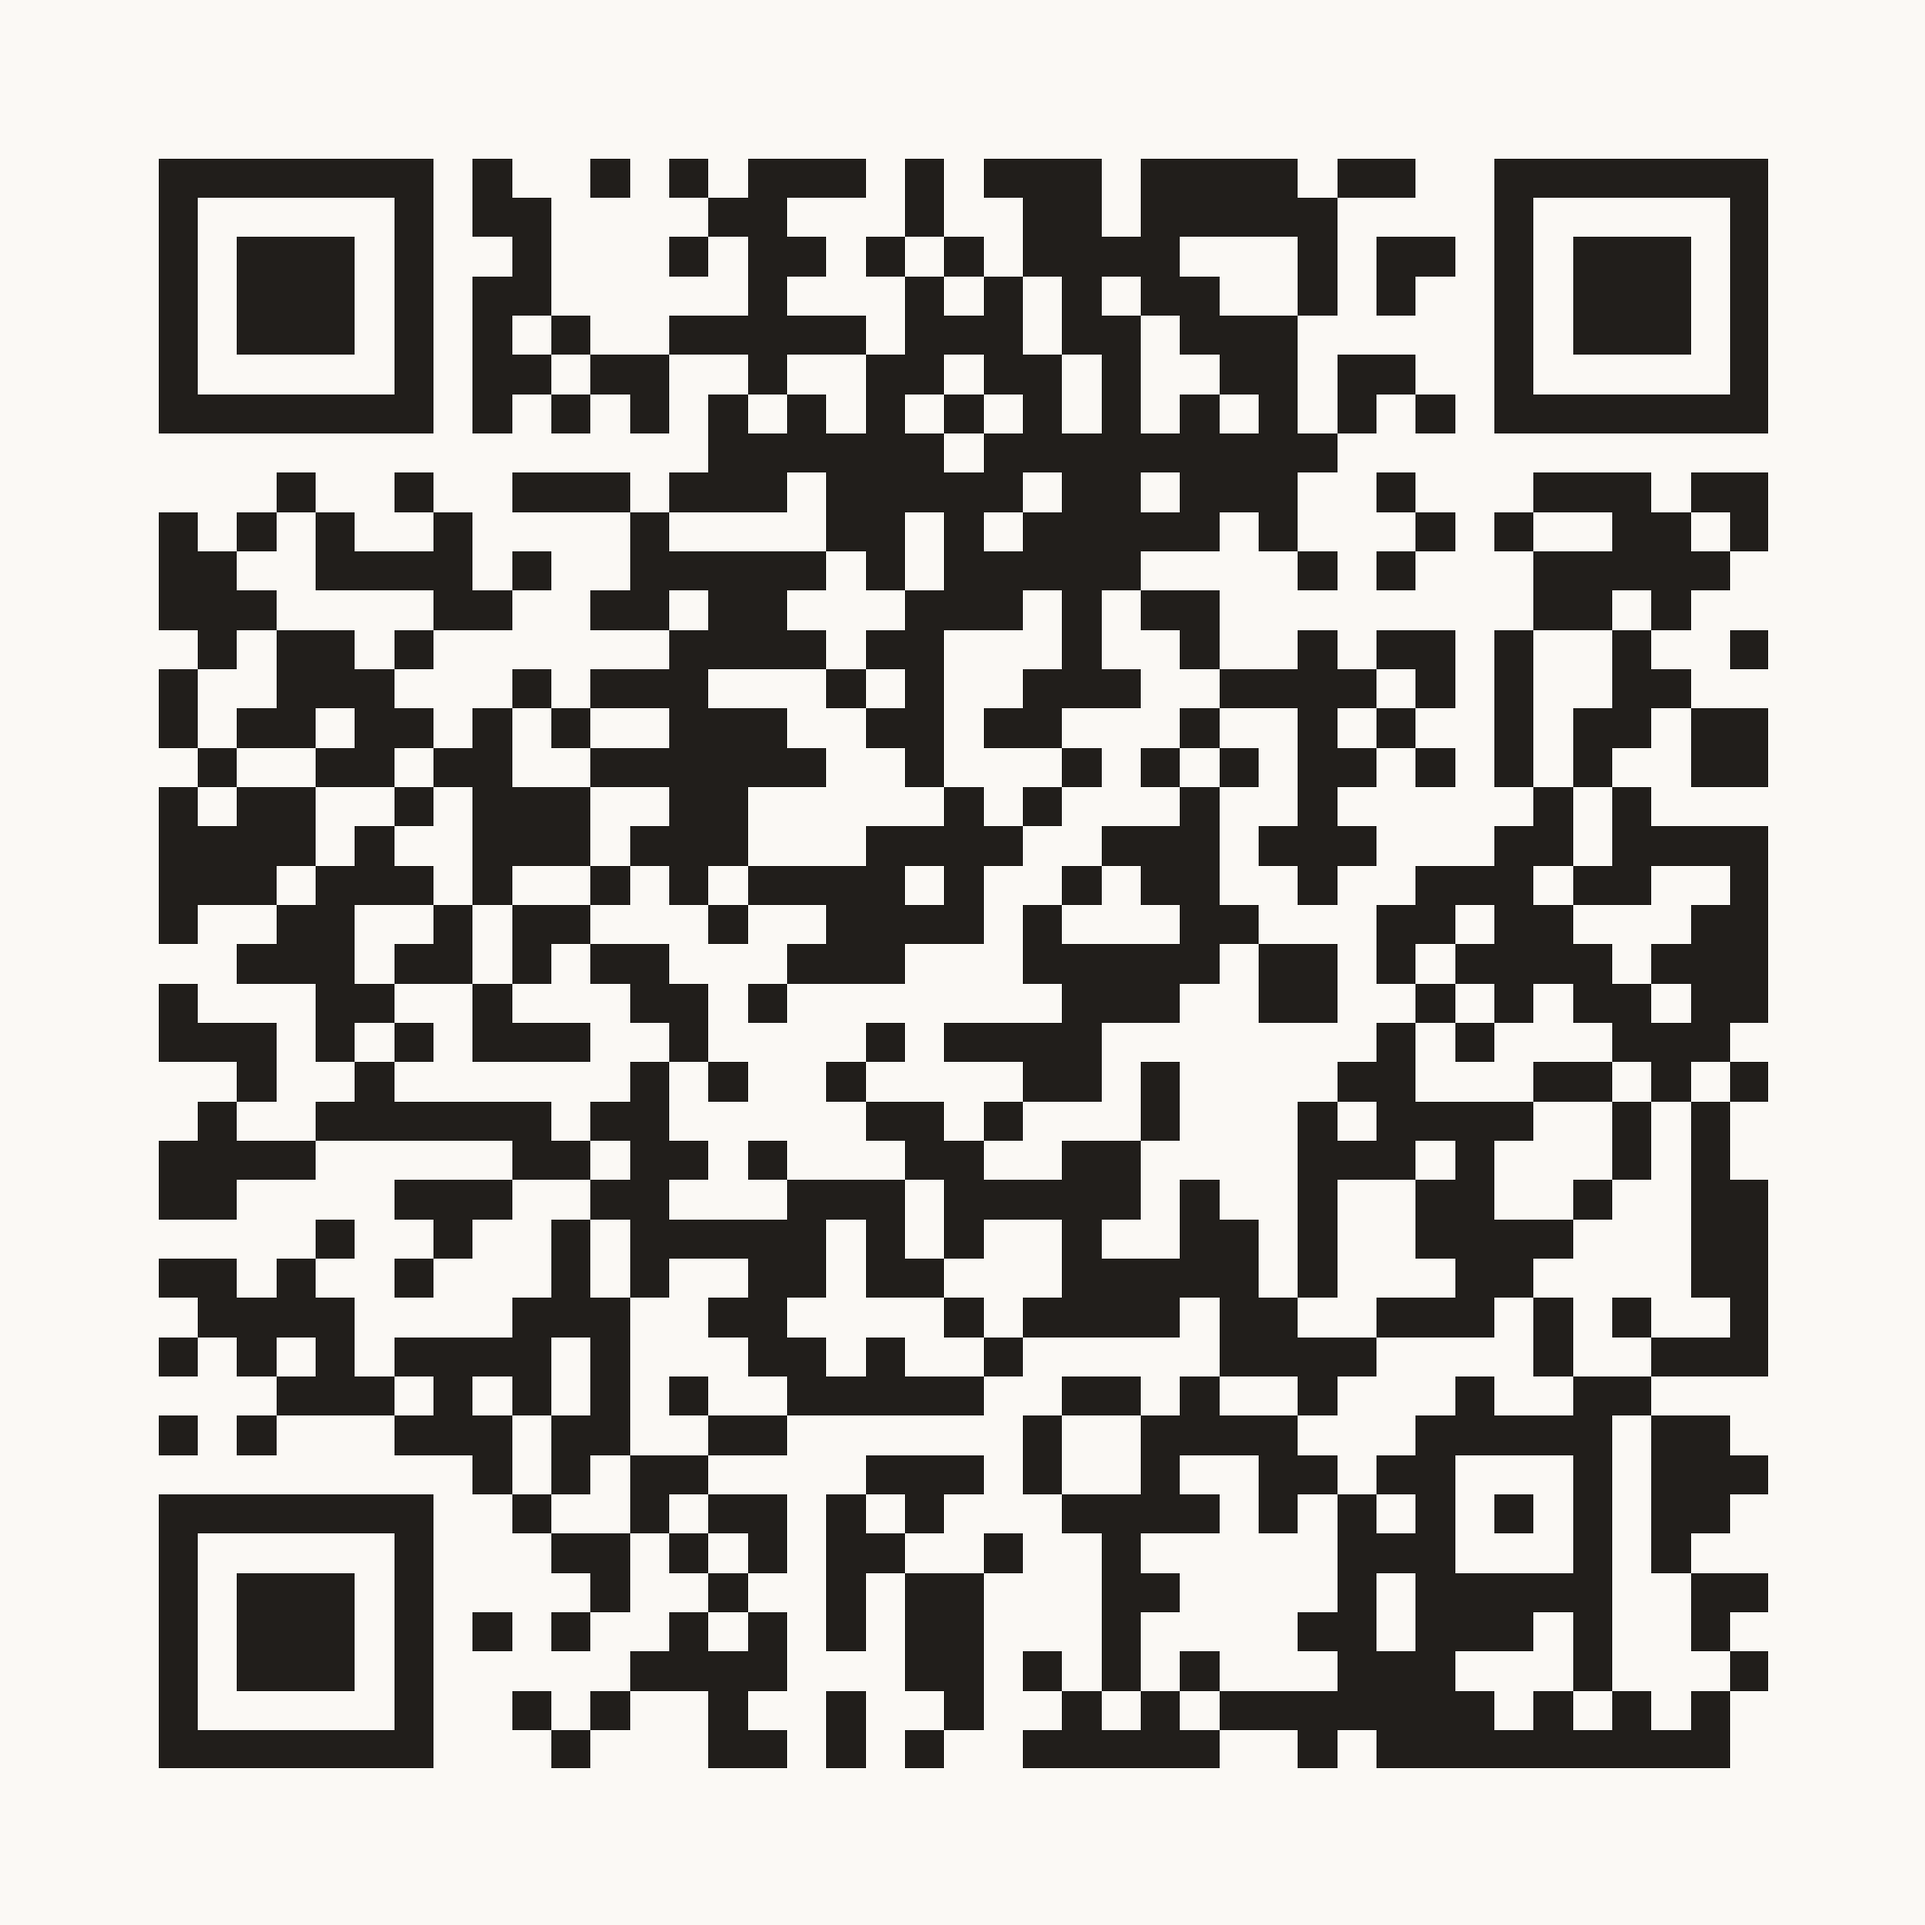
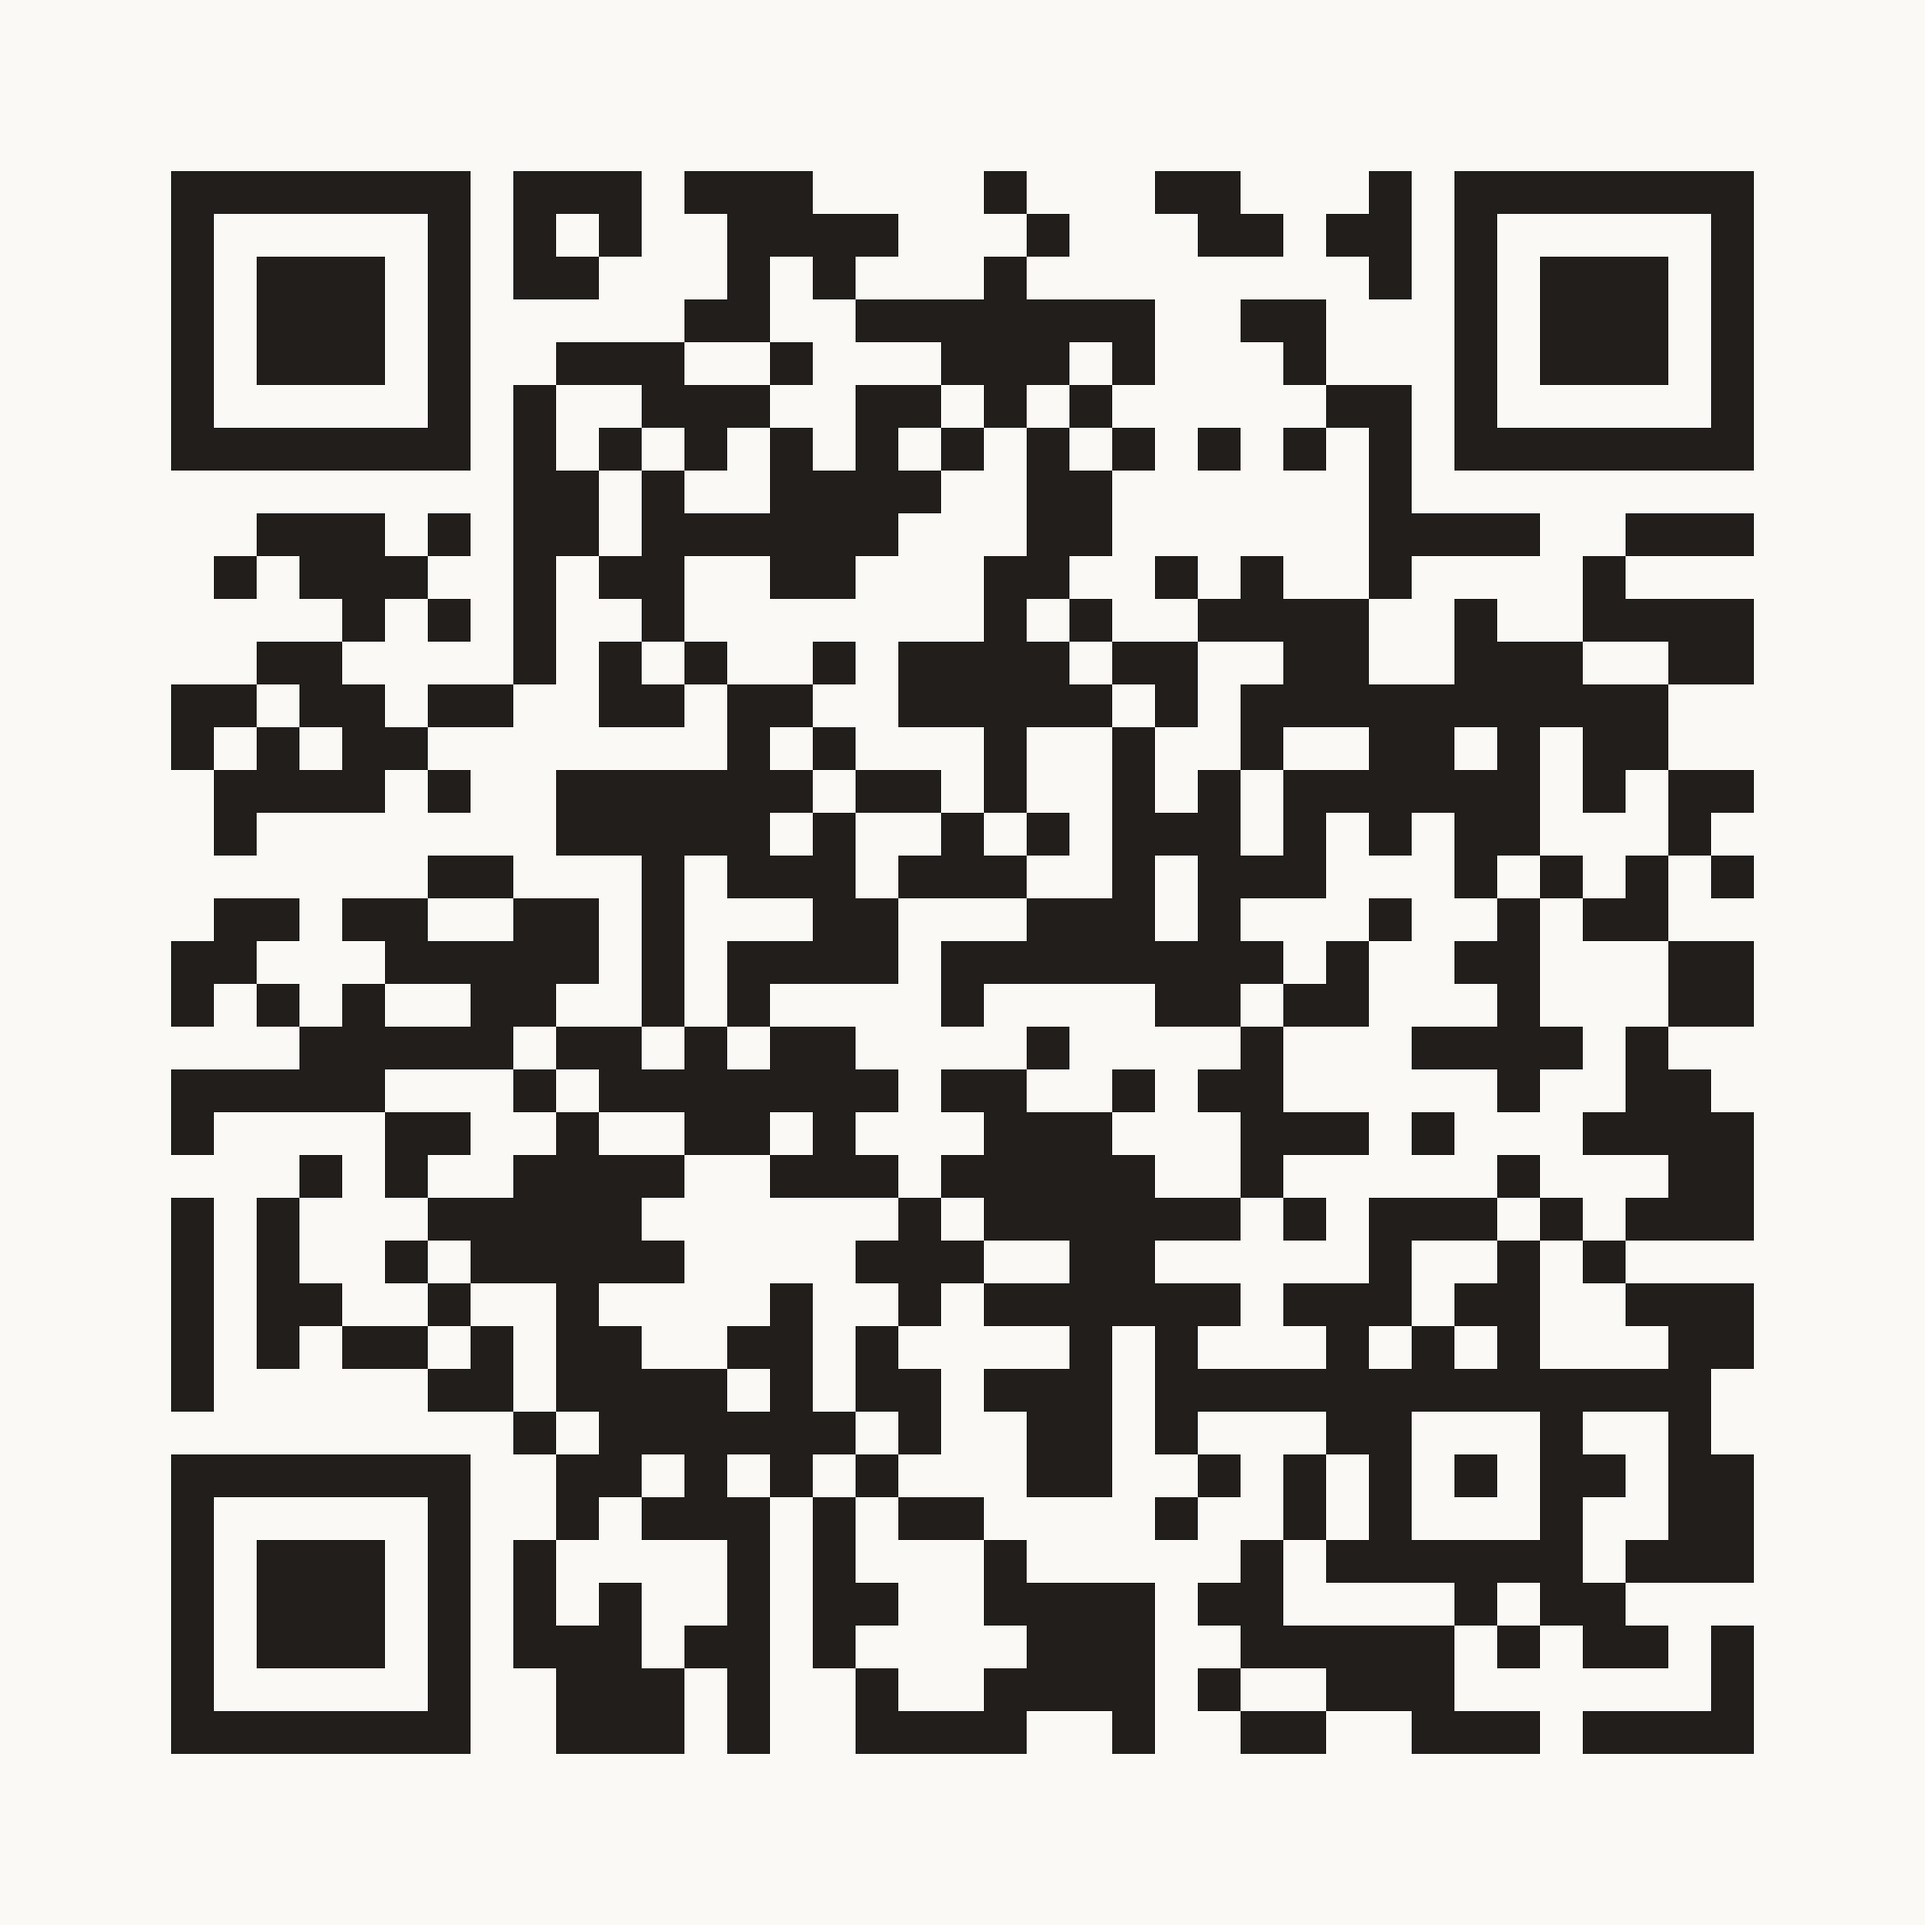
Point the brand QR code at the production domain

diff --git a/public/brand/README.md b/public/brand/README.md
@@ -57,7 +57,7 @@ The logo is flat colour. Do not add gradients, shadows or metallic effects.
 
 ## QR code
 
-The QR code points to `https://desired-homes-interiors-amun.vercel.app`. It uses
+The QR code points to `https://desired-home-interiors.vercel.app`. It uses
 error correction level H, a four-module quiet zone, ink modules on an ivory
 field. If the production domain changes, regenerate both QR files with the new
 origin.
